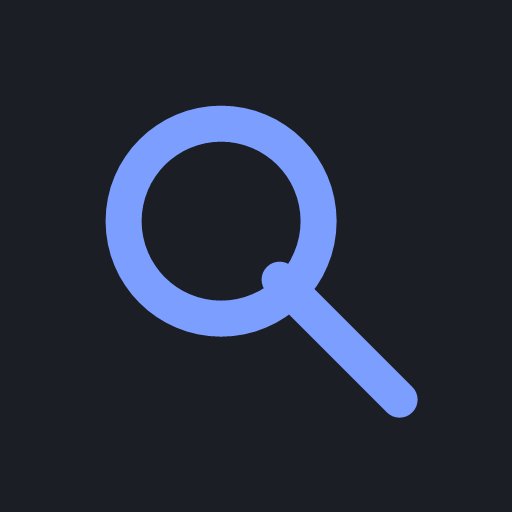
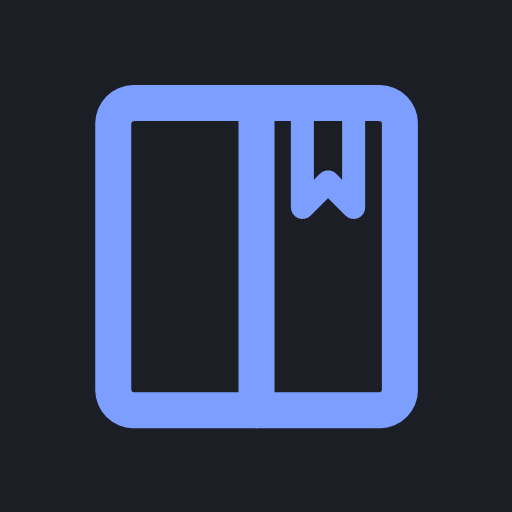
アイコンを虫眼鏡から本(しおり付き)に、タイトルを「探索者記録帳」に変更
- PWAアイコン・デスクトップショートカット用.icoを、見開きの本にしおりが
  挟まったデザインに変更(生成スクリプトも合わせて更新)
- アプリ名を「探索者アーカイブ」から「探索者記録帳」に変更(タイトル・
  見出し・マニフェスト・いあきゃら連携時の案内文言)。GitHubリポジトリ名・
  公開URL・内部の保存キー(IndexedDB名等)は互換性のため変更していない

Changed region(s): [[0.1875, 0.1562, 0.8438, 0.8438]]

diff --git a/js/iacharaSync.js b/js/iacharaSync.js
@@ -51,7 +51,7 @@
       }
       // 処理中であることが分かるよう、画面の右上に小さな案内を出す(完了時に消す)。
       var statusBanner = document.createElement('div');
-      statusBanner.textContent = '探索者アーカイブ: 取得中…';
+      statusBanner.textContent = '探索者記録帳: 取得中…';
       statusBanner.style.cssText = 'position:fixed;top:12px;right:12px;z-index:2147483647;' +
         'background:#1c1e26;color:#eceef2;padding:8px 14px;border-radius:6px;' +
         'font-family:sans-serif;font-size:13px;box-shadow:0 2px 8px rgba(0,0,0,0.3);';
@@ -159,8 +159,8 @@
       statusBanner.remove();
       var done = function () {
         alert(ccfoliaJson
-          ? 'キャラクター情報(能力値・技能を含む)をコピーしました。\\n「探索者アーカイブ」の貼り付け欄にペーストしてください。'
-          : 'キャラクター情報をコピーしました(能力値・技能は自動取得できませんでした。予備欄で手動貼り付けしてください)。\\n「探索者アーカイブ」の貼り付け欄にペーストしてください。');
+          ? 'キャラクター情報(能力値・技能を含む)をコピーしました。\\n「探索者記録帳」の貼り付け欄にペーストしてください。'
+          : 'キャラクター情報をコピーしました(能力値・技能は自動取得できませんでした。予備欄で手動貼り付けしてください)。\\n「探索者記録帳」の貼り付け欄にペーストしてください。');
       };
       if (navigator.clipboard && navigator.clipboard.writeText) {
         navigator.clipboard.writeText(text).then(done, function () { prompt('コピーができなかったので、下のテキストを手動でコピーしてください:', text); });

diff --git a/index.html b/index.html
@@ -3,7 +3,7 @@
 <head>
 <meta charset="UTF-8">
 <meta name="viewport" content="width=device-width, initial-scale=1.0">
-<title>探索者アーカイブ</title>
+<title>探索者記録帳</title>
 <link rel="stylesheet" href="css/style.css">
 <link rel="manifest" href="manifest.json">
 <link rel="icon" href="icons/icon-192.png">
@@ -12,7 +12,7 @@
 </head>
 <body>
   <header class="app-header">
-    <h1>探索者アーカイブ</h1>
+    <h1>探索者記録帳</h1>
     <div class="header-actions">
       <span id="folder-indicator" class="folder-indicator"></span>
       <button type="button" id="btn-add" class="btn-primary">＋ 新規探索者</button>

diff --git a/sw.js b/sw.js
@@ -3,7 +3,7 @@
  * 探索者データ自体はここでは扱わない(File System Access APIでローカルフォルダに
  * 直接保存されるため、Service Workerの範囲外)。
  */
-const CACHE_NAME = 'coc-investigator-archive-v56';
+const CACHE_NAME = 'coc-investigator-archive-v57';
 const PRECACHE_URLS = [
   './',
   './index.html',

diff --git a/README.md b/README.md
@@ -1,4 +1,4 @@
-# 探索者アーカイブ
+# 探索者記録帳
 
 クトゥルフ神話TRPG(CoC)の探索者(キャラクター)データを、外部のキャラクターシートサービスに
 依存せずローカルに保管・検索・更新するための個人用Webアプリです。
